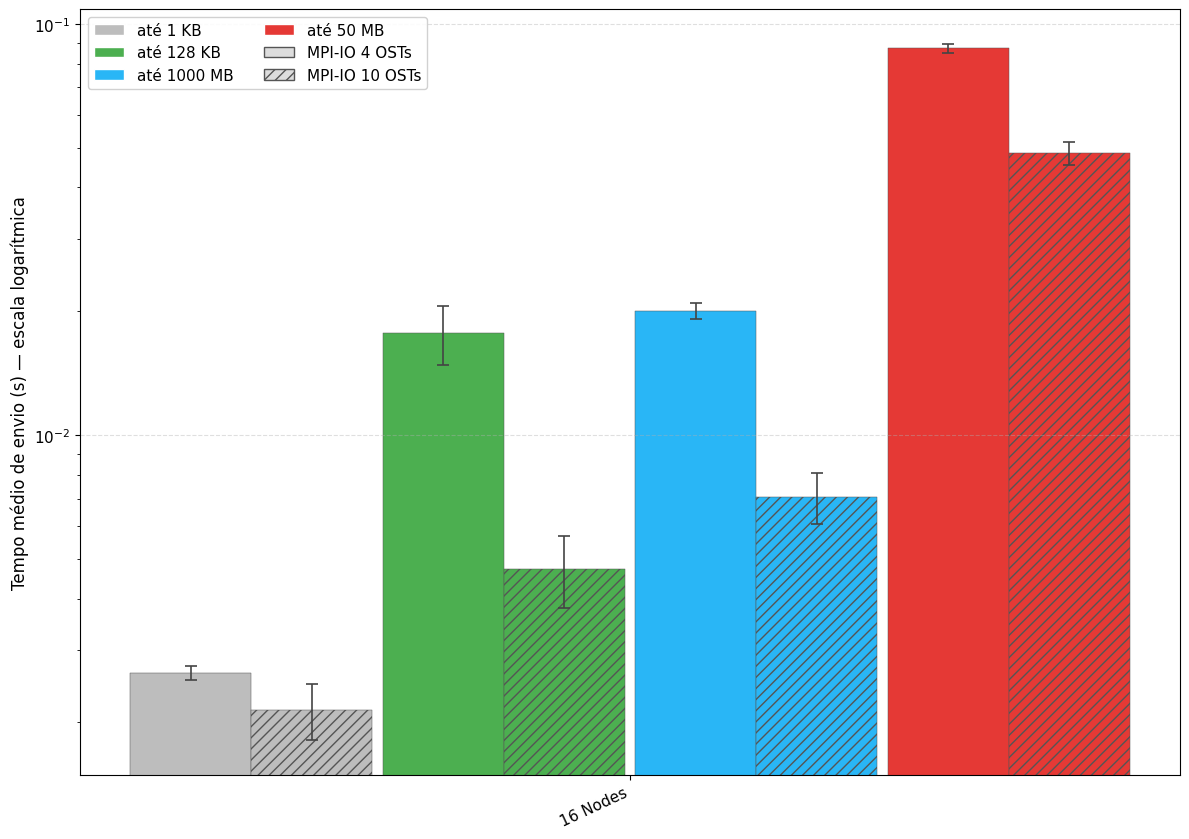
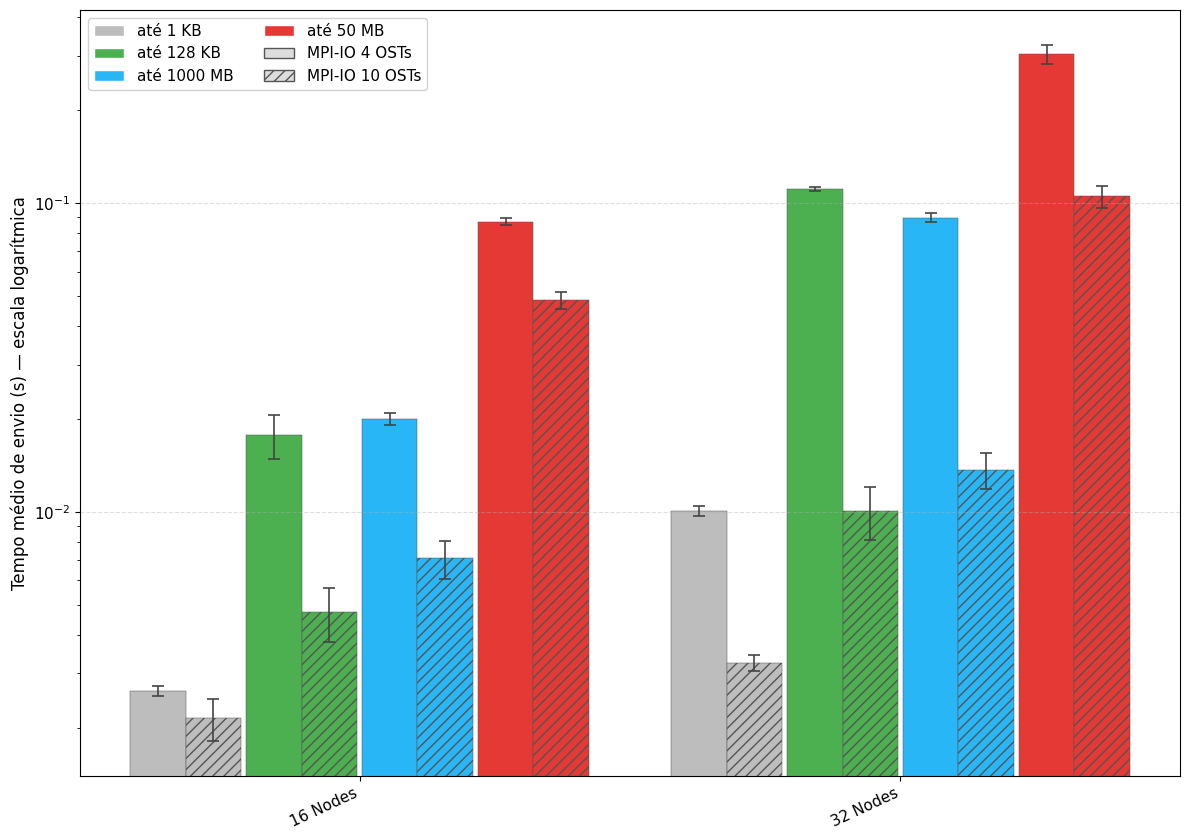
Fix OSTs

diff --git a/todo.md b/todo.md
@@ -1,8 +1,11 @@
 ## Correções pequenas
 
-- cuidado com mensagens
+
+
+- Rodar 4 OSts com 1536 ( falta 32 nodes ) - regenerar figuras e atualizar texto.
+- Gerar novamente figura de quantidade de blocos de dados. 
+- cuidado com texo "mensagens"
 - Figura de blocos de menagens dificil de ler ( tirar espaço interno - aumentar espaço em cima) - label do eixo y errado.
-- Rodar 4 OSts com 1536 ( falta 32 nodes ) - regenerar figuras
 - ~~Tirar label figura histrograma - faltou descrição dos eixos~~
 - ~~corrigir labels figura blocos~~
 
